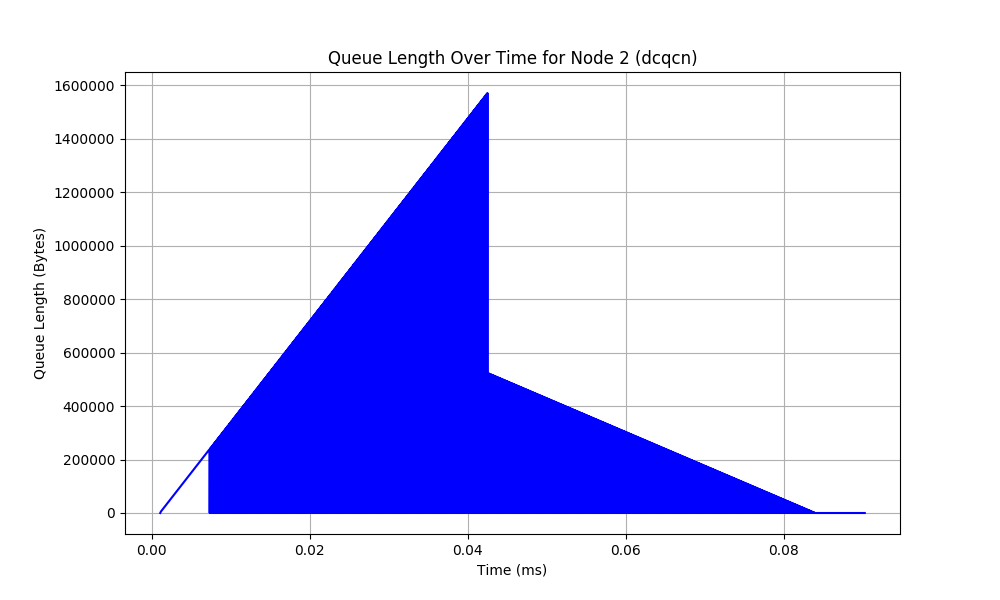
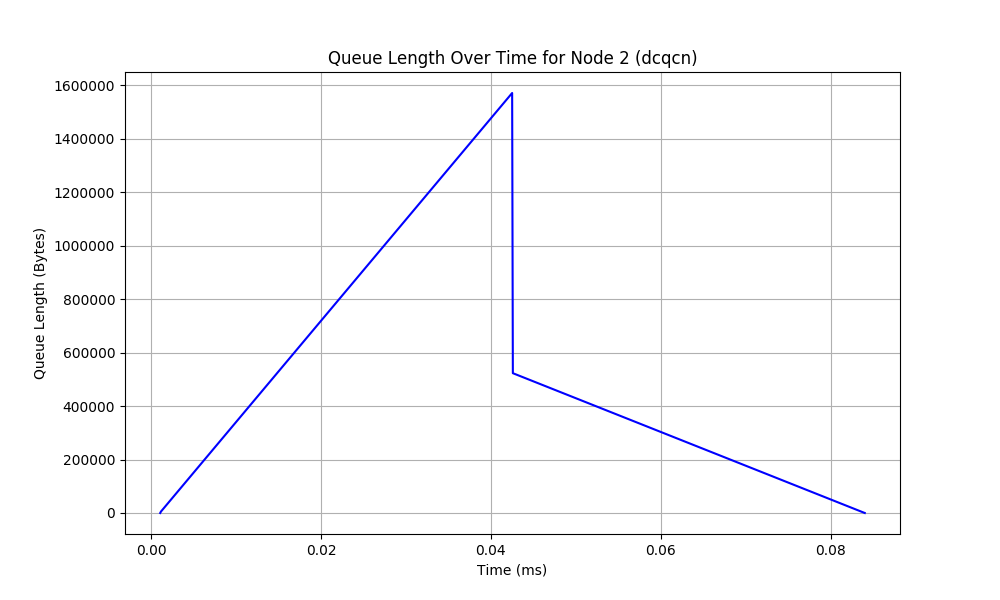
Filter data packets in qlen trace graph

diff --git a/analysis/graph/qlen_graph.py b/analysis/graph/qlen_graph.py
@@ -16,15 +16,16 @@ def process_qlen_trace_file(file_name, node_number):
     with open(file_name, 'r') as file:
         for line in file:
             parts = line.split()
-            if len(parts) < 4:
+            if len(parts) < 11:
                 print('skipping {}'.format(line))
                 continue
             time_ns = int(parts[0]) # time ns
             node = int(parts[1].split(':')[1]) # node number
             queue_length = int(parts[3]) # queue length in bytes
+            packet_type = parts[10] # 'U' for data packet
 
             # Filter by the given node number
-            if node == node_number:
+            if packet_type == "U" and node == node_number:
                 if time_ns not in ts_to_qlen_map:
                     ts_to_qlen_map[time_ns] = 0
                 ts_to_qlen_map[time_ns] += queue_length
